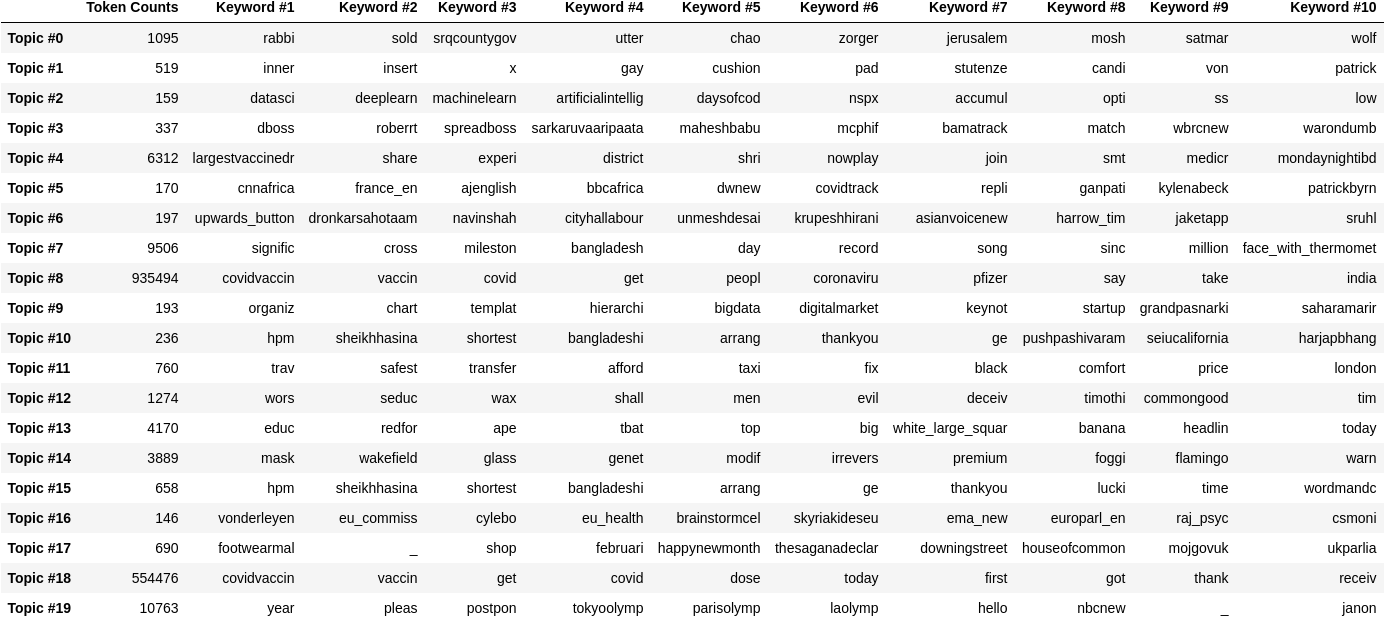
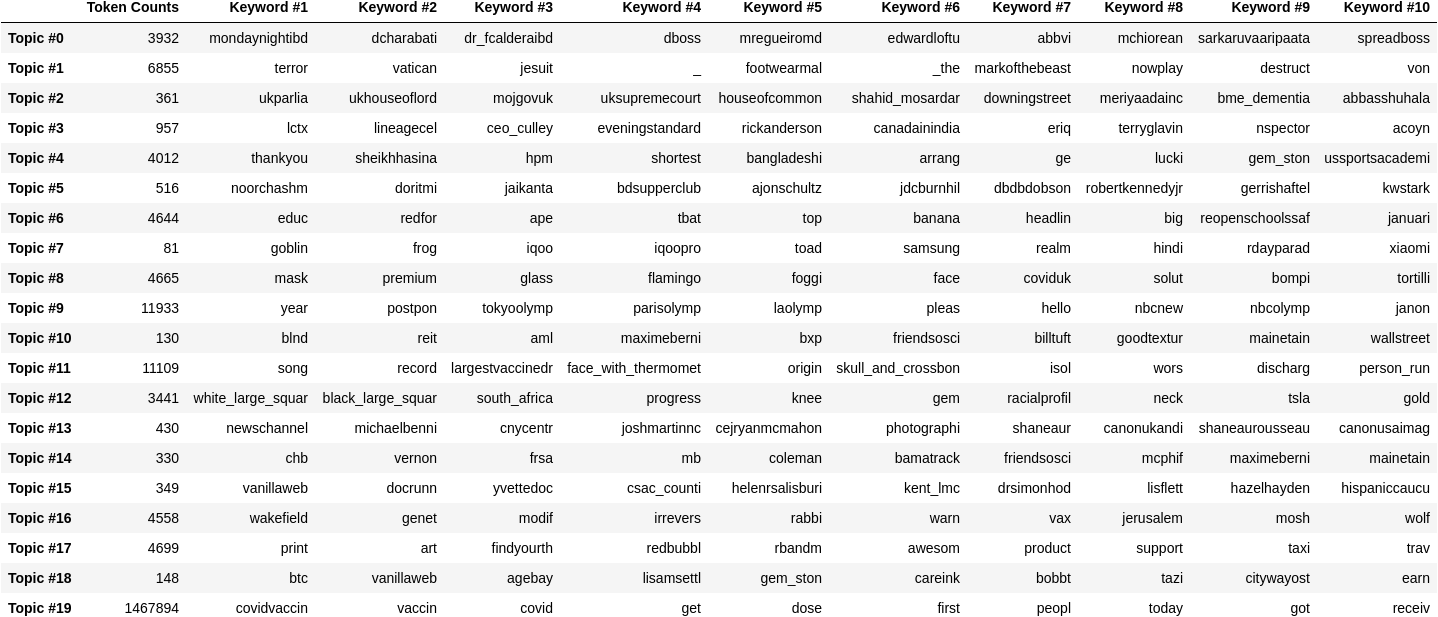
update lda hdp images

diff --git a/pages/results.html b/pages/results.html
@@ -146,7 +146,7 @@ title: Results
     To fine-tune our model, we applied grid search on the number of topics, alpha (hyper-parameter for the document-topic Dirichlet distribution), and beta (hyper-parameter for the topics-word Dirichlet distribution). The number of topics ranges from 2 to 20, with a step size of 2. And both alpha and beta range from 0.01 to 0.91, with a step size of 0.1. To evaluate the results, we use Coherence Score, as shown below:
 </p>
 <center>
-<img src="../static/img/sorted_lda_coherence_results.png" alt="LDA Coherence Result" width="50%">
+<img src="../static/img/sorted_lda_coherence.png" alt="LDA Coherence Result" width="50%">
 </center>
 <p>
     We evaluate the model using two types of coherence score: CV coherence score and the UMass coherence score. The former ranges from 0 to 1 and the latter ranges from -14 to 14. Both measure how well each topic (clusters) is by comparing the inter-topic relevance and intra-topic relevance. The higher the values the better. However, we found that when evaluating using the UMass coherence score, the highest scores are mostly achieved by having very few topics such as 2. As a result, we decided to use the CV coherence score as our primary metric to determine the best sets of hyper-parameters. The model performs the best when the number of topics is set to 20. And for each topics, we have provided the top-10 most relevant words:
@@ -154,9 +154,10 @@ title: Results
 
 <img src="../static/img/lda_topic_words.png" alt="LDA Topic Words" width="100%">
 
-<center>
-<button type="button" onclick="window.open('../static/embed/ldavis.html','_blank')">Click me to visualize LDA result !</button>
-</center>
+<p>
+    We visualize the the relative importance of the topic words using word cloud:
+</p>
+<img src="../static/img/lda_wordcloud.png" alt="LDA word cloud" width="100%">
 
 <p>
     As expected, the majority of Twitter users use the hashtag #CovidVaccine to talk about the latest progress in vaccine development or their experience in getting the shots. As we see in Topic #8 and Topic #18, they include the majority of words (meaning most of the content using these words are talking about vaccine development progress. Some keywords include "take", "get", "first", "dose", "covidvaccin", "pfizer", etc.
@@ -166,10 +167,24 @@ title: Results
     However, we also found a few other interesting topics. Topic #2 revolves machine learning, deep learning, artificial intelligence. We’re guessing the topic is mainly about how to use big data to perform contact tracing and to slow the spread of the virus. Topic #7 is about the significant progress on vaccine development in Bangladesh and Topic #10 talks about Sheikh Hasina, president of Bangladesh, helping make the vaccine more accessible to Bangladeshis. Topic #19 discusses the postponement of the 2020 Summer Olympics at Tokyo, Japan. We sometimes discovered new topics when we re-ran LDA on the tweets data. For example, we have found topics talking about Apple’s stock price and MarketSmith, a stock research and investment tool.
 </p>
 
-<h3 id="logistics">Next Step: GSDMM (Gibbs Sampling algorithm for a Dirichlet Mixture Model)<br>
+<h3 id="logistics">Hierarchical Dirichlet Process (HDP) using Tomotopy<br>
 </h3>
+Tweet topics are intrinsically hierarchical, so we further apply Hierarchical Dirichlet Process (HDP).
+
 
 <p>
-    During our background research on topic modeling for social media text, we found that GSDMM could be more effective on shorter text such as social media posts and comments. Though we do see some interesting topics uncovered by LDA, we still plan to apply GSDMM on the tweets and see what kind of topics are formed.
+    To fine-tune our model, we again applied grid search on the number of topics, alpha (hyper-parameter for the document-topic Dirichlet distribution), and beta (hyper-parameter for the topics-word Dirichlet distribution). The number of topics ranges from 2 to 20, with a step size of 2. And both alpha and beta range from 0.01 to 0.91, with a step size of 0.1. To evaluate the results, we use Coherence Score, as shown below:
 </p>
+<center>
+    <img src="../static/img/sorted_hdp_coherence.png" alt="HDP Coherence Result" width="50%">
+</center>
 
+<p>
+    The topic words are:
+</p>
+<center>
+    <img src="../static/img/hdp_topic_words.png" alt="HDP topic words" width="100%">
+</center>
+<center>
+    <img src="../static/img/hdp_wordcloud.png" alt="HDP word cloud" width="100%">
+</center>
